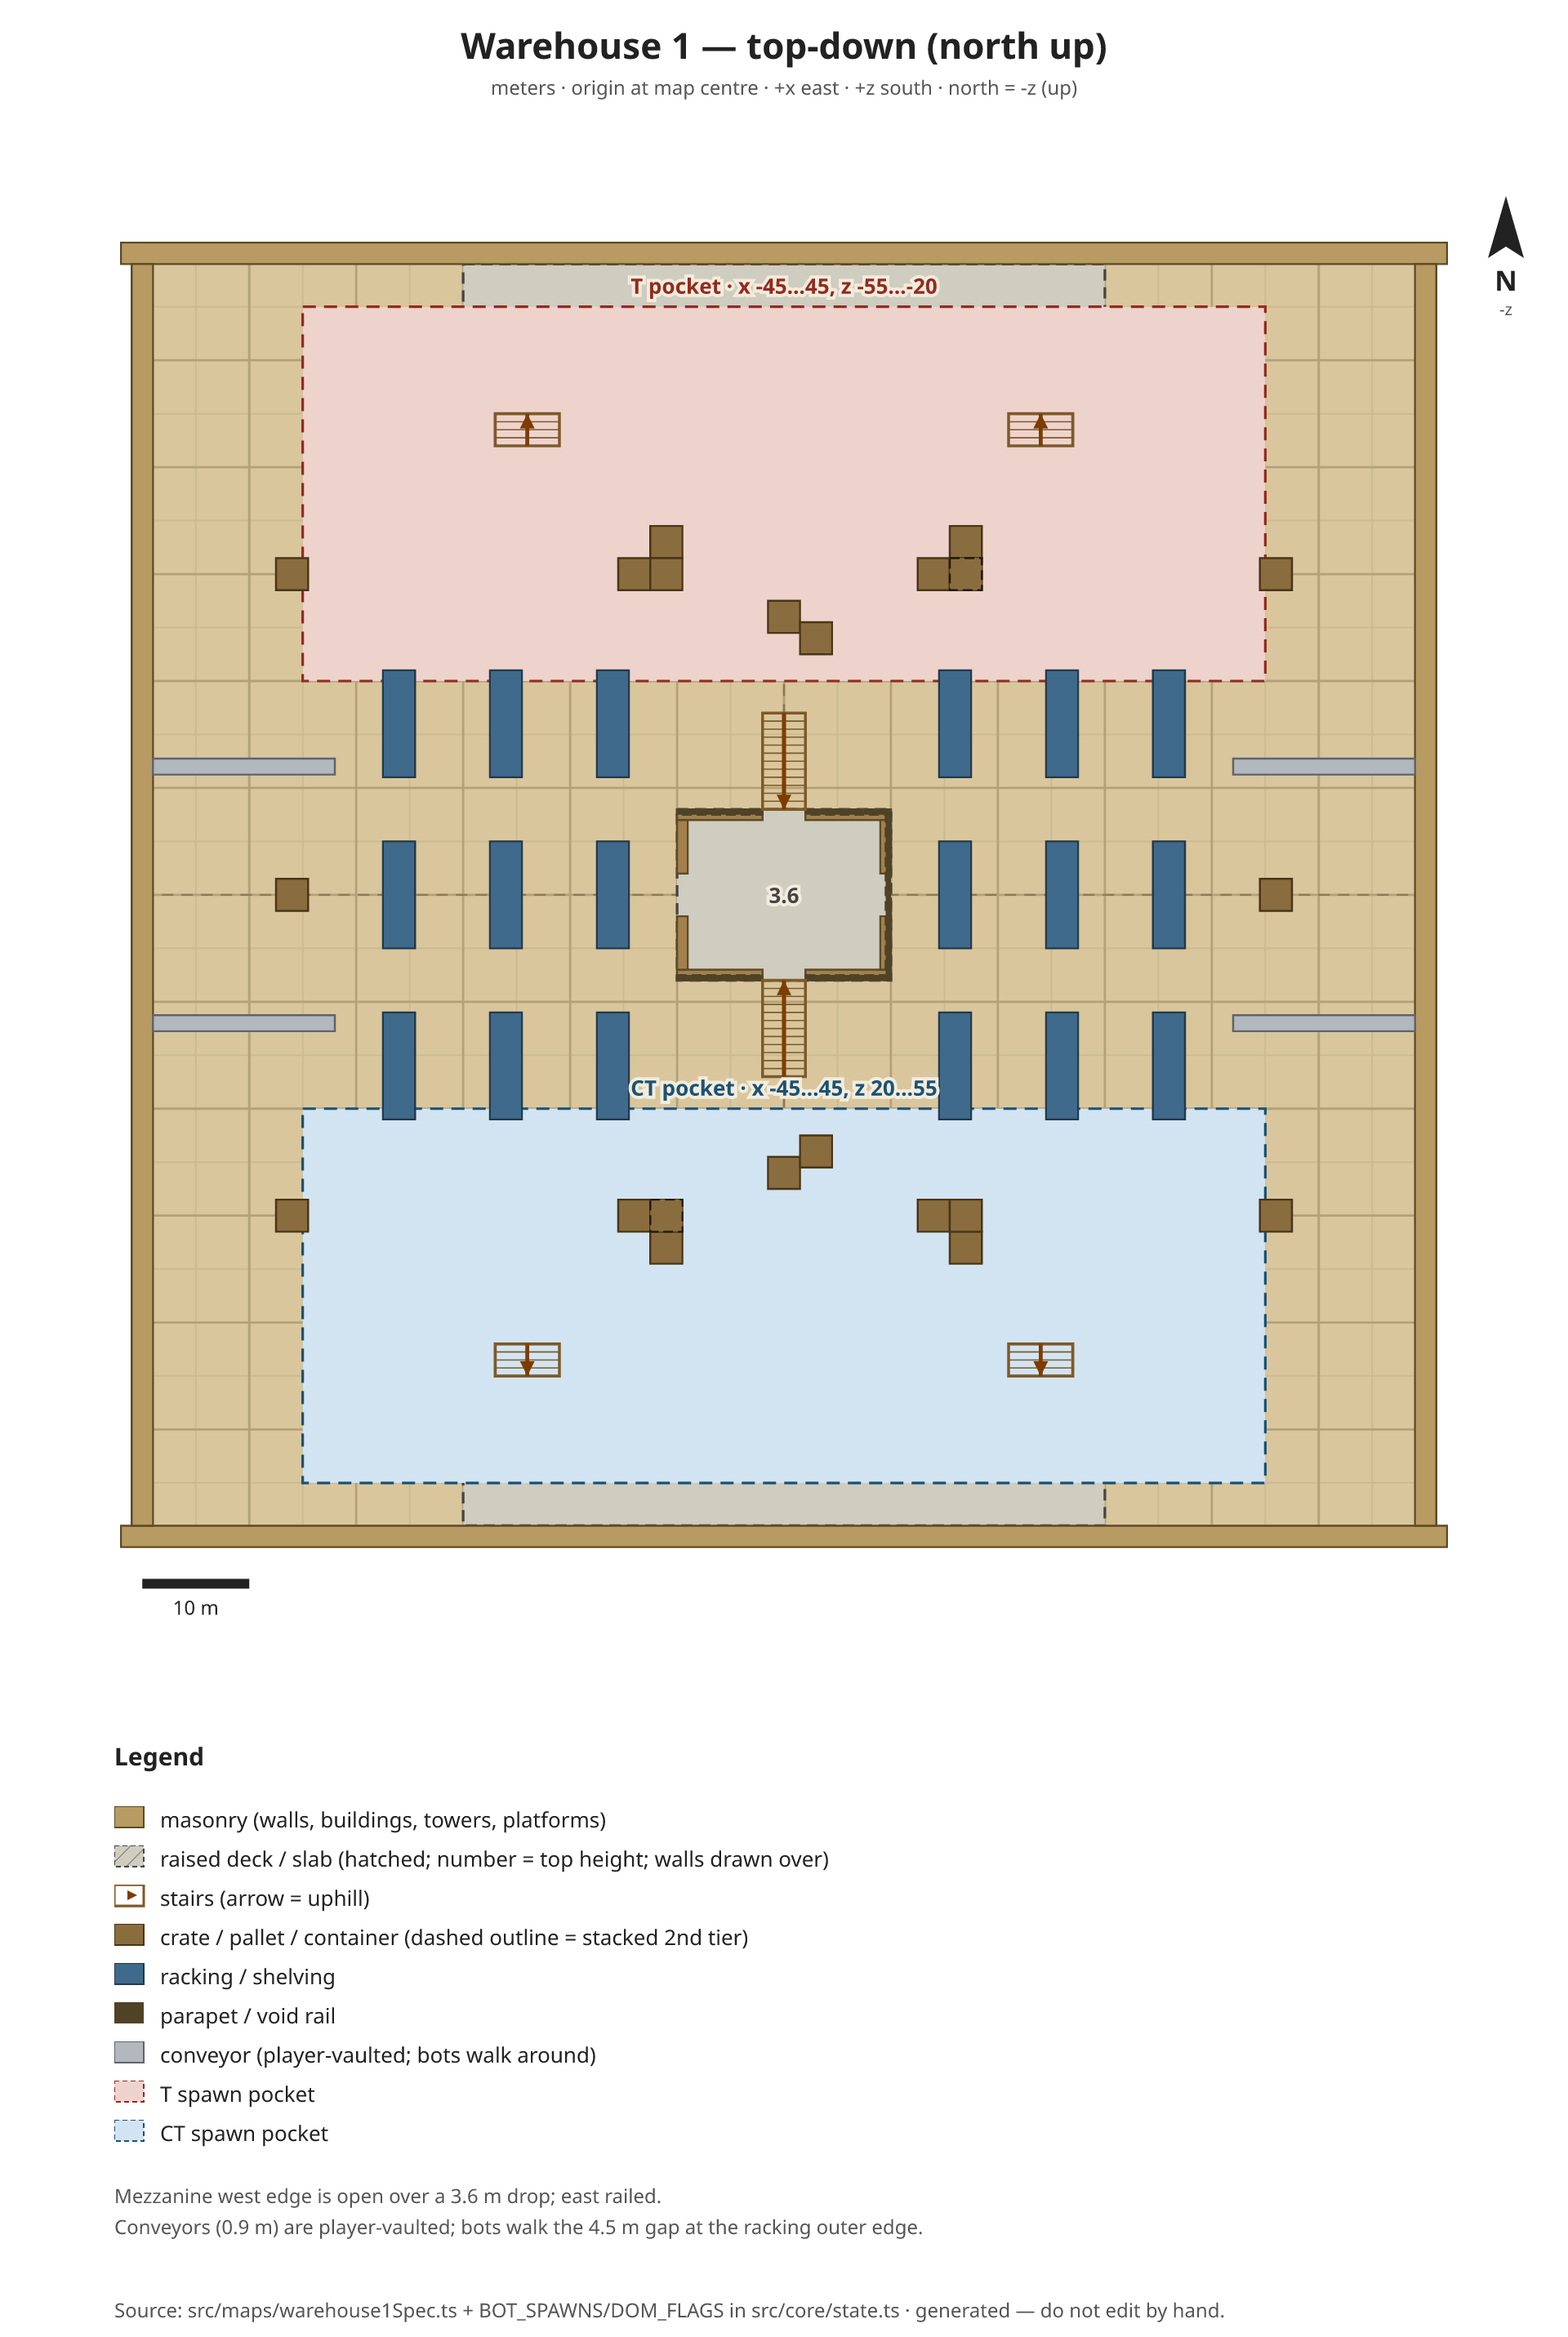
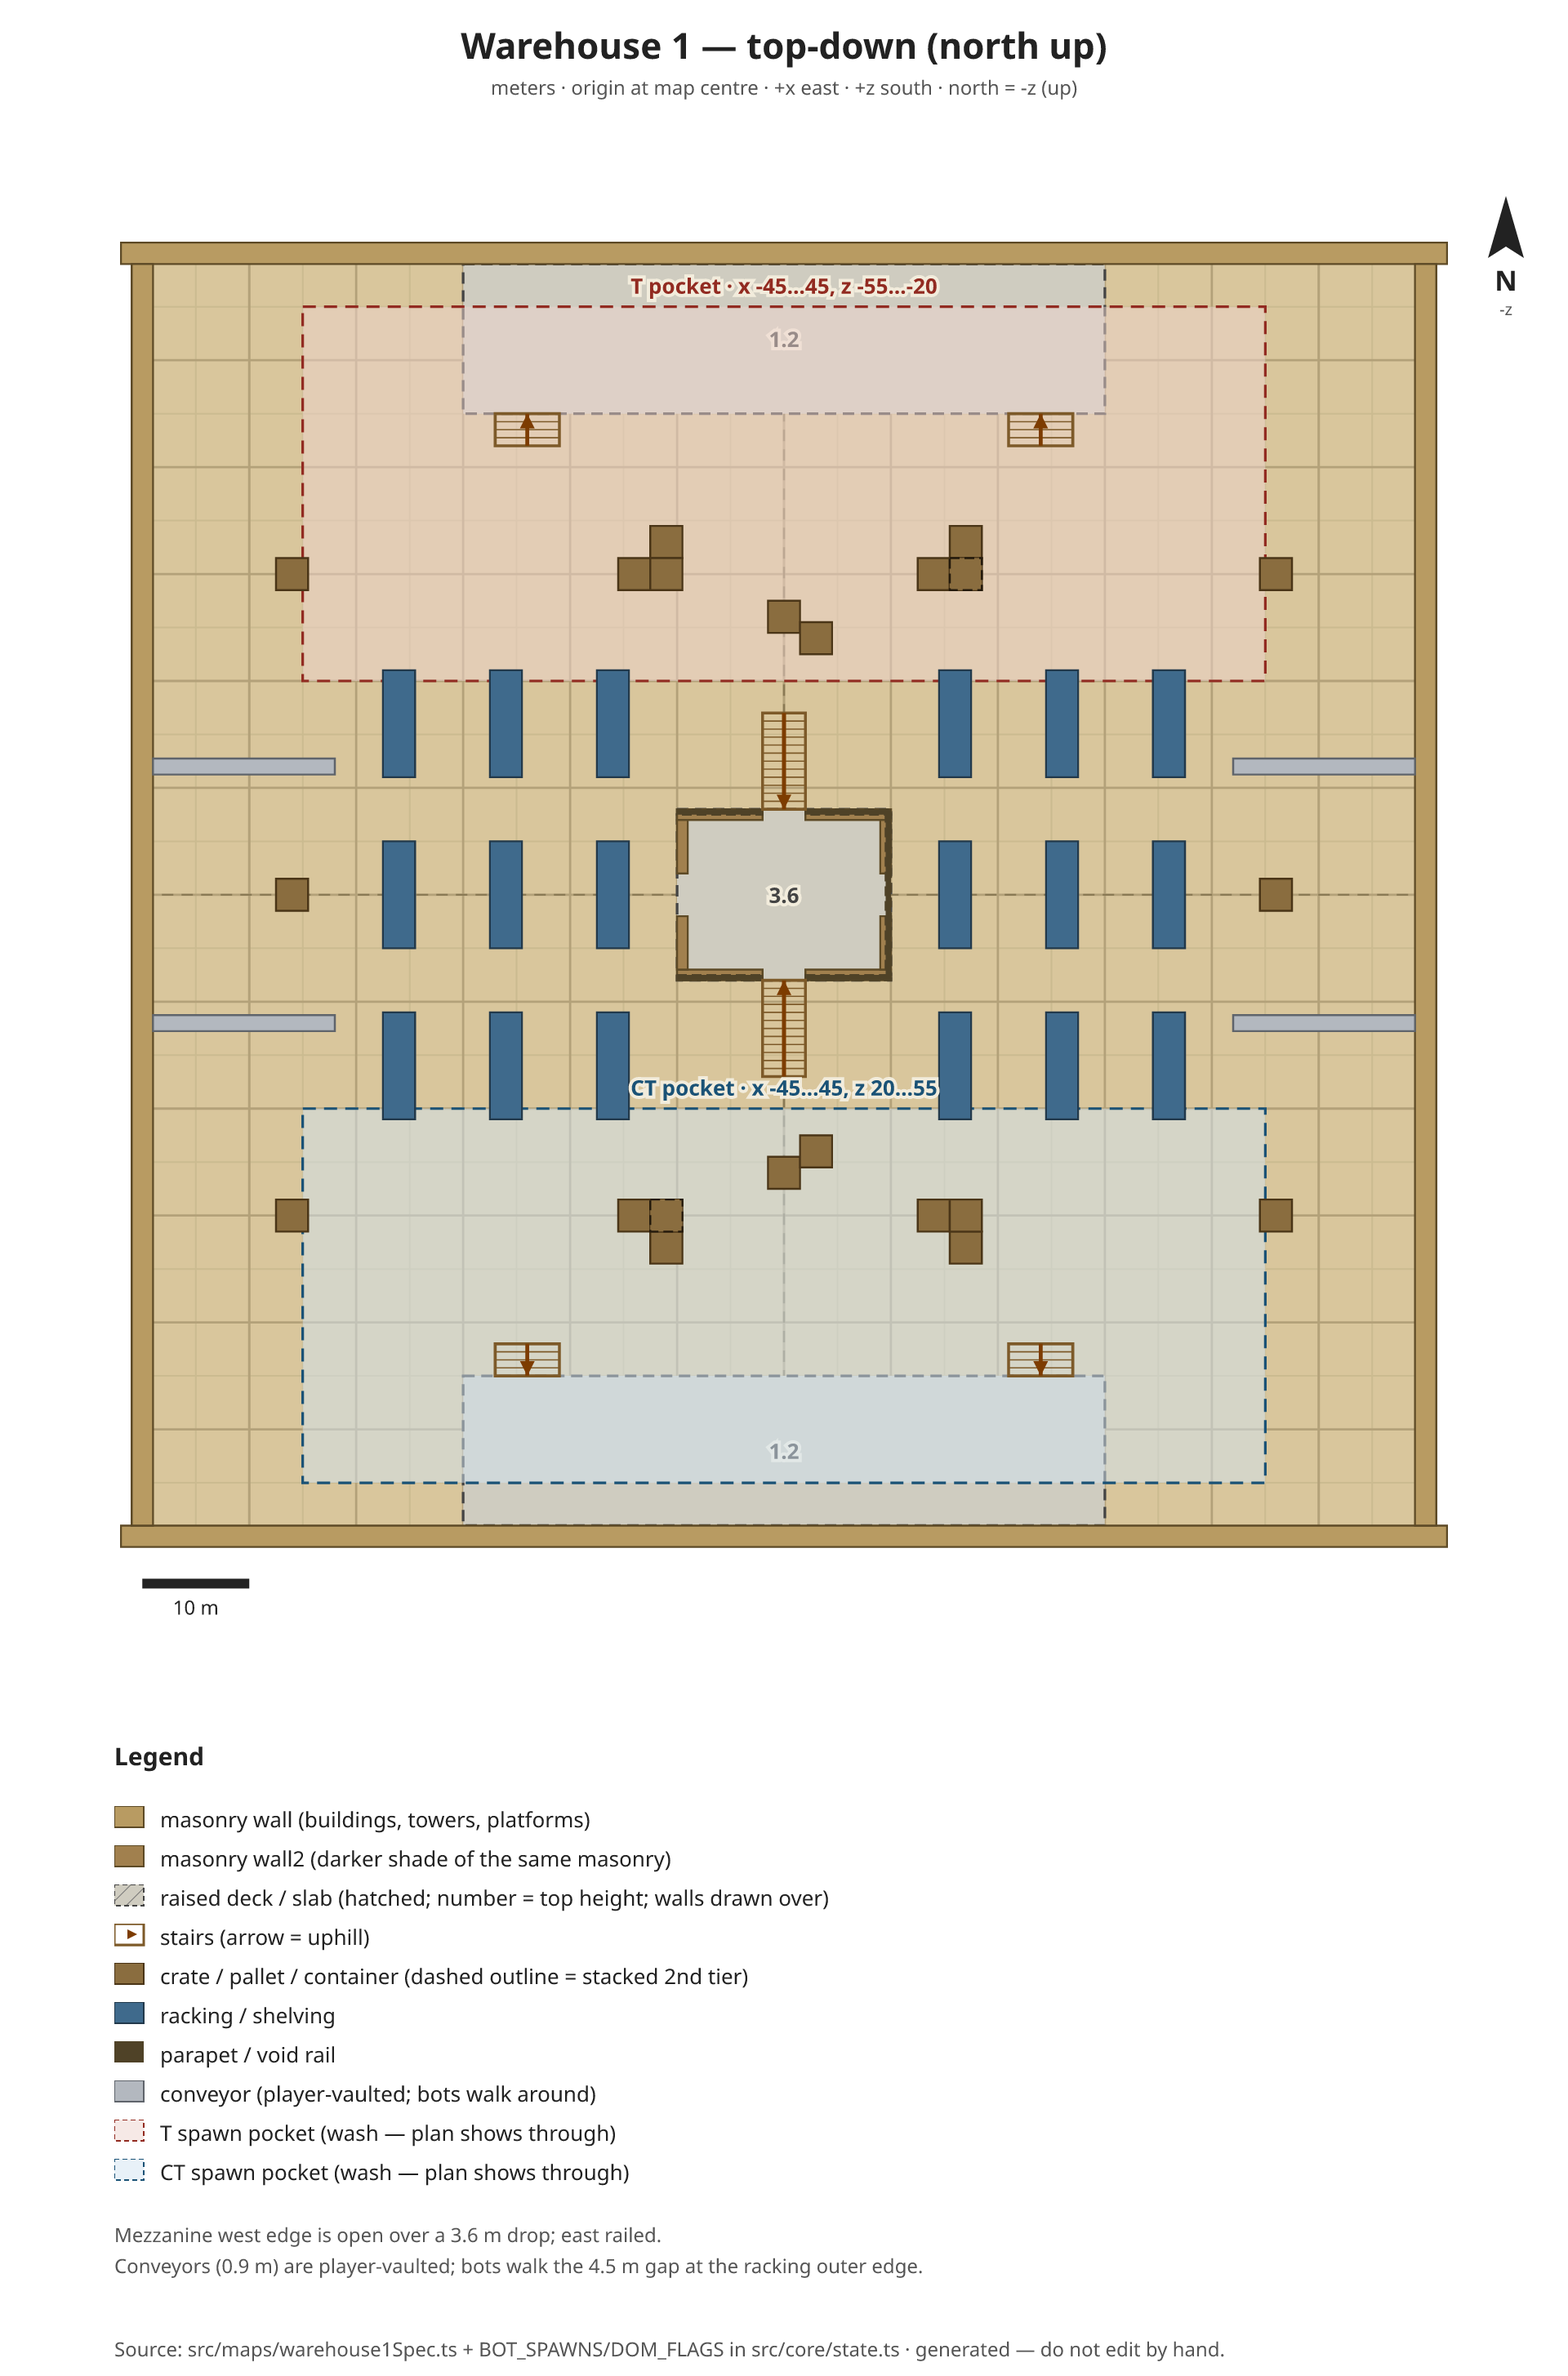
Wash spawn pockets and flag discs; move StairDir to sim and answer review-bot

Changed region(s): [[0.0625, 0.0933, 0.9375, 0.6841], [0.0625, 0.7152, 0.5312, 0.964], [0.9375, 0.0933, 0.9688, 0.1244]]

diff --git a/src/sim/stairs.ts b/src/sim/stairs.ts
@@ -5,11 +5,13 @@
 // Both used to compute the landing inline from the same formula, so the
 // reference map could drift from the graph it documents without any gate
 // noticing. This module owns the formula — pure numbers in, plain numbers
-// out, no engine, no DOM — and both call sites delegate to it.
-//
-// The single `import type` below is erased, so nothing is pulled into Node at
-// runtime (the sim/damage.ts seam).
-import type { StairDir } from '../world';
+// out, no engine, no DOM — and both call sites delegate to it. It also owns
+// StairDir: world.ts re-exports the type so existing import paths keep
+// working, and the source edge runs one way only (world -> sim), per the
+// AGENTS.md no-cycles rule.
+
+/** Cardinal directions a stair flight can ascend along. */
+export type StairDir = 'x+' | 'x-' | 'z+' | 'z-';
 
 /** A flight landing in world coordinates, as plain numbers (no THREE). */
 export interface StairTop {

diff --git a/src/maps/mapSpec.ts b/src/maps/mapSpec.ts
@@ -20,7 +20,8 @@ import type { StairDir } from '../world';
  * Render semantics for one placed box: what the reference map draws, and (via
  * each builder's kind -> material switch) what the game builds.
  *
- * `wall`/`wall2` are the same masonry fill on paper in two builder materials;
+ * `wall`/`wall2` share the masonry stroke on paper in two builder-material
+ * shades (light/dark);
  * `deck` is a walkable surface with air beneath it (slabs, bridges, docks);
  * `rail` is a low edge wall (parapets, void rails); `stair` is step paint —
  * flights that match their map's trim share its kind, flights with their own

diff --git a/src/world.ts b/src/world.ts
@@ -259,8 +259,10 @@ export function addSolidBox(x: number, y: number, z: number, w: number, h: numbe
   return mesh;
 }
 
-/** Cardinal directions a stair flight can ascend along. */
-export type StairDir = 'x+' | 'x-' | 'z+' | 'z-';
+// StairDir lives in sim/stairs.ts beside the endpoint arithmetic it feeds;
+// re-exported here so existing `from '../world'` paths keep working.
+import type { StairDir } from './sim/stairs';
+export type { StairDir };
 
 /**
  * Build a flight of stairs ascending along one cardinal direction from (x, z).
